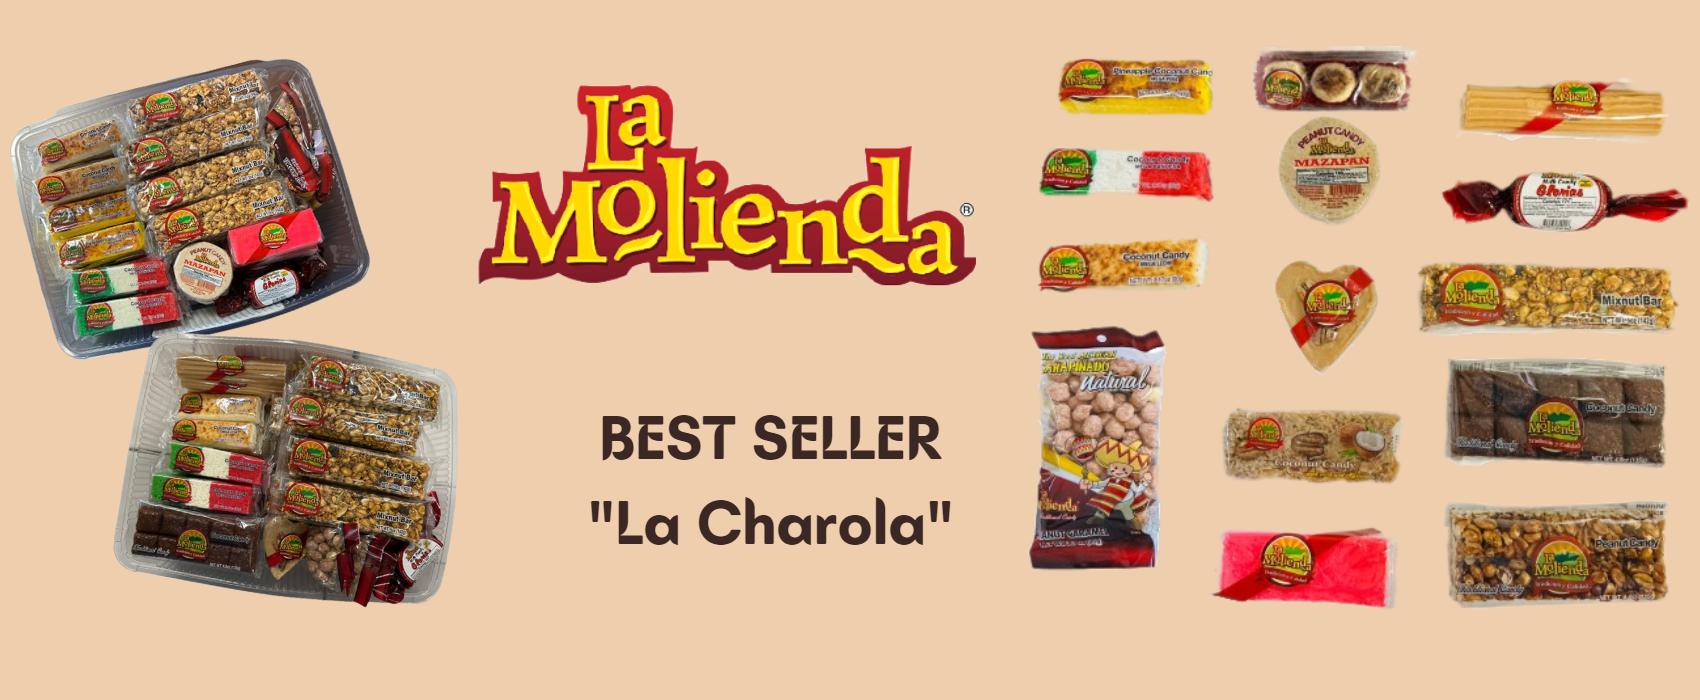
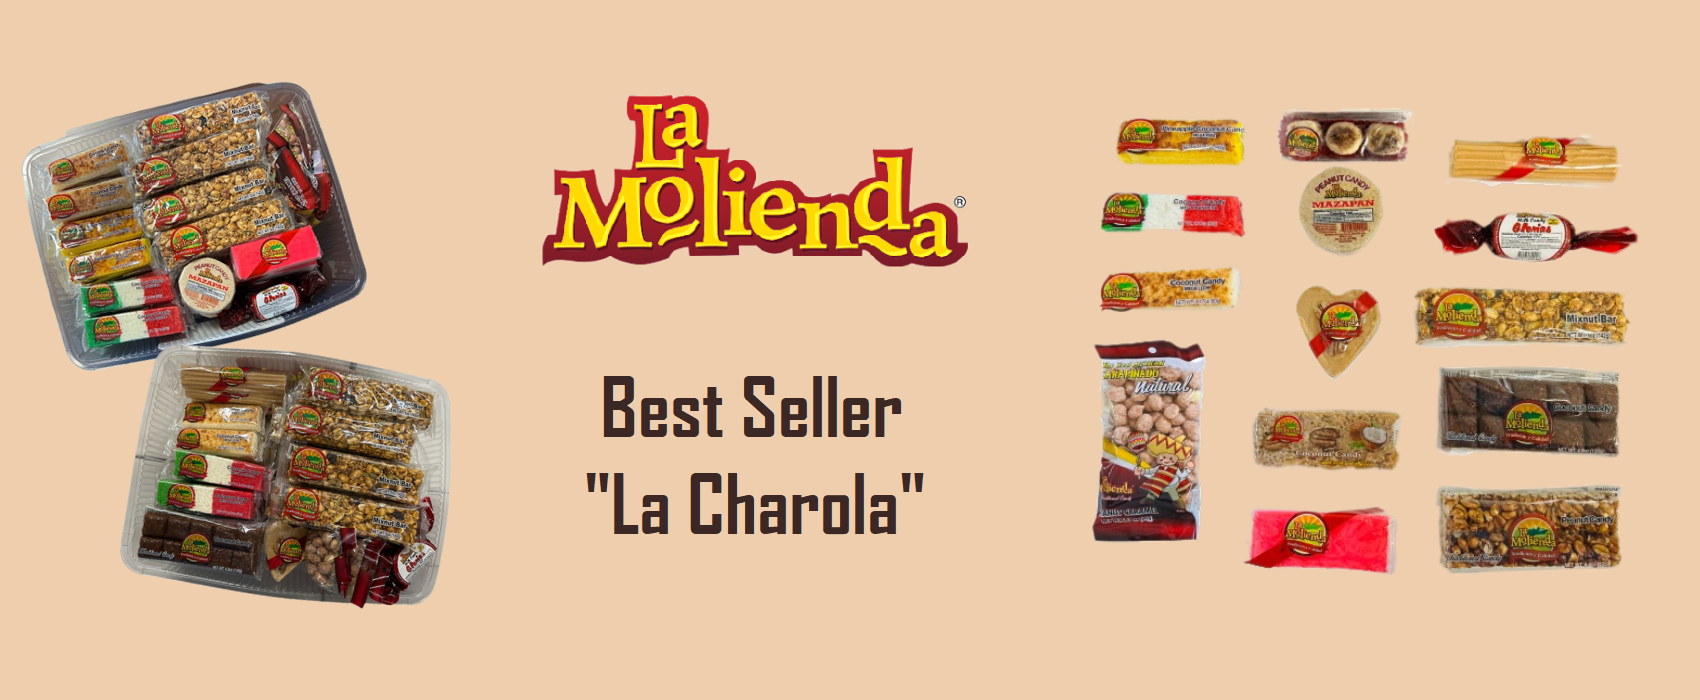
edited spanish and mobile for some stuff
changed index page banners to spanish and changed fonts. altered the mobile responsiveness on about html. also translated contact page in spanish.

diff --git a/EScontact.html b/EScontact.html
@@ -49,42 +49,36 @@
   </nav>
   <section class="container contactUs">
     <h2 class="contactHeading">
-      Send us an email with any questions regarding our products or services
-      here!
+      ¡Puede contactarnos con preguntas sobre nuestros productos o servicios aquí!
     </h2>
     <form class="row g-3 box">
       <div class="col-sm-6">
-        <label for="nameInput" class="form-label">Name</label>
-        <input type="text" class="form-control" id="nameInput" placeholder="Enter your name" required>
+        <label for="nameInput" class="form-label">Nombre</label>
+        <input type="text" class="form-control" id="nameInput" placeholder="Su Nombre" required>
       </div>
       <div class="col-sm-6">
-        <label for="subjectInput" class="form-label">Subject</label>
-        <input type="text" class="form-control" id="subjectInput" placeholder="Enter a subject" required>
+        <label for="subjectInput" class="form-label">Sujeto</label>
+        <input type="text" class="form-control" id="subjectInput" placeholder="El Sujeto" required>
       </div>
       <div class="col-sm-6">
-        <label for="emailInput" class="form-label">Email</label>
-        <input type="email" class="form-control" id="emailInput" placeholder="Enter your email" required>
+        <label for="emailInput" class="form-label">Correo Electronico</label>
+        <input type="email" class="form-control" id="emailInput" placeholder="Su Correo Electronico" required>
       </div>
       <div class="col-sm-6">
-        <label for="phoneInput" class="form-label">Phone</label>
-        <input type="tel" class="form-control" id="phoneInput" placeholder="Optional">
+        <label for="phoneInput" class="form-label">Telefono</label>
+        <input type="tel" class="form-control" id="phoneInput" placeholder="Su Numero de Telefono" required>
       </div>
       <div class="col-12">
-        <label for="comments" class="form-label">Message</label>
-        <textarea class="form-control" id="comments" rows="6" placeholder="Enter your message here."
-          required></textarea>
+        <label for="comments" class="form-label">Mensaje</label>
+        <textarea class="form-control" id="comments" rows="6" placeholder="Su Mensaje" required></textarea>
       </div>
       <div class="d-grid gap-2 col-4 mx-auto divSubmitBtn">
-        <button type="submit" class="btn submitBtn">Send</button>
+        <button type="submit" class="btn submitBtn">Enviar</button>
       </div>
     </form>
     <div class="contactDetails flexor">
-      <h2><span class="B">Phone:</span> (404)-936-7051</h2>
-      <h2><span class="B">Email:</span> lacasagrandega@gmail.com</h2>
-      <h2>
-        <span class="B">Location:</span> 1415 HWY 85 N Suite 310-400
-        Fayeteville, GA 30214
-      </h2>
+      <h2><span class="B">Telefono:</span> (404)-936-7051</h2>
+      <h2><span class="B">Correo Electronico:</span> lacasagrandega@gmail.com</h2>
     </div>
   </section>
   <script src="https://cdn.jsdelivr.net/npm/@popperjs/core@2.11.5/dist/umd/popper.min.js"

diff --git a/ESindex.html b/ESindex.html
@@ -48,23 +48,28 @@
     </div>
   </nav>
   <!-- Carousel Start -->
-  <div id="carouselExample" class="carousel carousel-dark slide" data-bs-ride="carousel">
-    <div class="carousel-inner">
-      <div class="carousel-item active" data-bs-interval="4500">
-        <img src="images/caballoNegro.png" class="d-block w-100" alt="Caballo Negro Promotional Image">
+  <div>
+    <div id="carouselExample" class="carousel carousel-dark slide" data-bs-ride="carousel">
+      <div class="carousel-inner">
+        <div class="carousel-item active" data-bs-interval="4500">
+          <img src="images/MoliendaBannerEsp.png" class="d-block w-100" alt="Molienda Promotional Image" />
+        </div>
+        <div class="carousel-item" data-bs-interval="4500">
+          <img src="images/caballoNegroEsp.png" class="d-block w-100" alt="Caballo Negro Promotional Image" />
+        </div>
+        <div class="carousel-item" data-bs-interval="4500">
+          <img src="images/nanePromoEsp.png" class="d-block w-100" alt="Nane Promotional Image" />
+        </div>
       </div>
-      <div class="carousel-item" data-bs-interval="4500">
-        <img src="images/nanePromo.png" class="d-block w-100" alt="Nane Promotional Image">
-      </div>
+      <button class="carousel-control-prev" type="button" data-bs-target="#carouselExample" data-bs-slide="prev">
+        <span class="carousel-control-prev-icon" aria-hidden="true"></span>
+        <span class="visually-hidden">Previous</span>
+      </button>
+      <button class="carousel-control-next" type="button" data-bs-target="#carouselExample" data-bs-slide="next">
+        <span class="carousel-control-next-icon" aria-hidden="true"></span>
+        <span class="visually-hidden">Next</span>
+      </button>
     </div>
-    <button class="carousel-control-prev" type="button" data-bs-target="#carouselExample" data-bs-slide="prev">
-      <span class="carousel-control-prev-icon" aria-hidden="true"></span>
-      <span class="visually-hidden">Previous</span>
-    </button>
-    <button class="carousel-control-next" type="button" data-bs-target="#carouselExample" data-bs-slide="next">
-      <span class="carousel-control-next-icon" aria-hidden="true"></span>
-      <span class="visually-hidden">Next</span>
-    </button>
   </div>
   <!-- Carousel End -->
   <!-- Companies Start -->

diff --git a/js/index.js b/js/index.js
@@ -1,3 +1,8 @@
+// Load La Molienda as initial Filter
+window.onload = function () {
+  filterSelection("MO");
+};
+
 //Filter products by logo button
 function filterSelection(c) {
   var x, i;
@@ -79,53 +84,3 @@ searchInput.addEventListener("keyup", searchProducts);
 //Add event listener to clear button
 var clearBtn = document.getElementById("clearBtn");
 clearBtn.addEventListener("click", clearSearch);
-
-// filterSelection("all");
-
-// function filterSelection(c) {
-//   var x, i;
-//   x = document.getElementsByClassName("product");
-//   if (c == "all") c = "";
-//   for (i = 0; i < x.length; i++) {
-//     removeClass(x[i], "show");
-//     if (x[i].className.indexOf(c) > -1) addClass(x[i], "show");
-//   }
-// }
-
-// function addClass(el, name) {
-//   var i, arr1, arr2;
-//   arr1 = el.className.split(" ");
-//   arr2 = name.split(" ");
-//   for (i = 0; i < arr2.length; i++) {
-//     if (arr1.indexOf(arr2[i]) == -1) {
-//       el.className += " " + arr2[i];
-//     }
-//   }
-// }
-
-// function removeClass(el, name) {
-//   var i, arr1, arr2;
-//   arr1 = el.className.split(" ");
-//   arr2 = name.split(" ");
-//   for (i = 0; i < arr2.length; i++) {
-//     while (arr1.indexOf(arr2[i]) > -1) {
-//       arr1.splice(arr1.indexOf(arr2[i]), 1);
-//     }
-//   }
-//   el.className = arr1.join(" ");
-// }
-
-// let searchInput = document.getElementById("searchInput");
-// searchInput.addEventListener("input", () => {
-//   let query = searchInput.value.toLowerCase();
-//   let products = document.querySelectorAll(".product");
-//   products.forEach((product) => {
-//     let productName = product.querySelector(".productName");
-//     let productNameText = productName.textContent.toLowerCase();
-//     if (productNameText.includes(query)) {
-//       product.style.display = "block";
-//     } else {
-//       product.style.display = "none";
-//     }
-//   });
-// });

diff --git a/contact.html b/contact.html
@@ -67,7 +67,7 @@
       </div>
       <div class="col-sm-6">
         <label for="phoneInput" class="form-label">Phone</label>
-        <input type="tel" class="form-control" id="phoneInput" placeholder="Optional">
+        <input type="tel" class="form-control" id="phoneInput" placeholder="Enter your phone number" required>
       </div>
       <div class="col-12">
         <label for="comments" class="form-label">Message</label>
@@ -81,10 +81,6 @@
     <div class="contactDetails flexor">
       <h2><span class="B">Phone:</span> (404)-936-7051</h2>
       <h2><span class="B">Email:</span> Luanaenterprisesllc@gmail.com</h2>
-      <h2>
-        <span class="B">Mail Address:</span> 1415 HWY 85 N Suite 310-400
-        Fayeteville, GA 30214
-      </h2>
     </div>
   </section>
   <script src="https://cdn.jsdelivr.net/npm/@popperjs/core@2.11.5/dist/umd/popper.min.js"

diff --git a/index.html b/index.html
@@ -52,7 +52,7 @@
     <div id="carouselExample" class="carousel carousel-dark slide" data-bs-ride="carousel">
       <div class="carousel-inner">
         <div class="carousel-item active" data-bs-interval="4500">
-          <img src="images/MoliendaBanner4.png" class="d-block w-100" alt="Molienda Promotional Image" />
+          <img src="images/MoliendaBanner.png" class="d-block w-100" alt="Molienda Promotional Image" />
         </div>
         <div class="carousel-item" data-bs-interval="4500">
           <img src="images/caballoNegro.png" class="d-block w-100" alt="Caballo Negro Promotional Image" />
